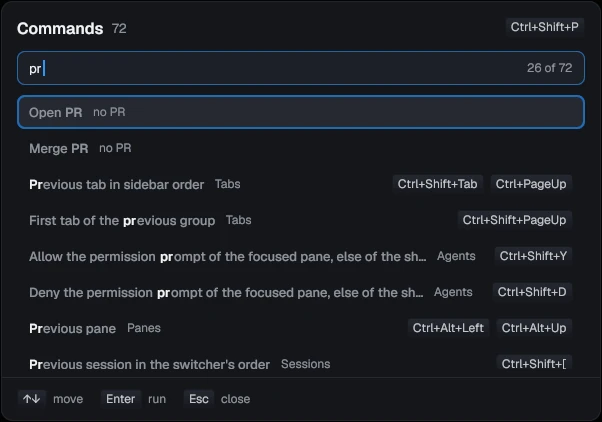
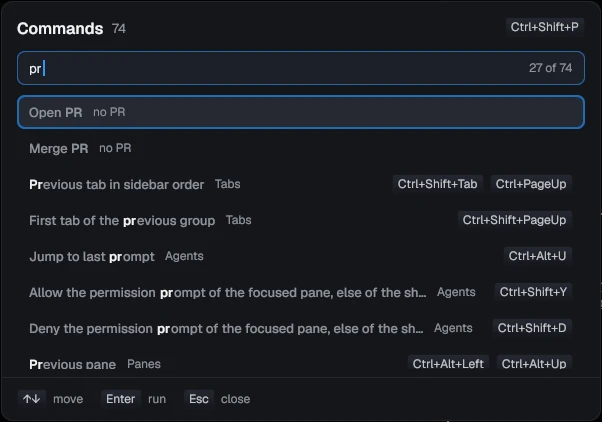
Show the 0.2 UI and version scheme in the README and site (#332)
* Show the 0.2 UI and version scheme in the README and site

Retake the hero, sidebar, fleet, session switcher and palette images from
a current build, and add the board with a section in the README and on the
site. The hero, sidebar and fleet images come from a temp daemon with
scripted fake agents; the switcher, palette and board come from
pwdemo-app. Timing, Usage, Agent errors and agents talking keep their
data, with the current sidebar header and footer.

Releases are now v0.2.N. release.sh already bumps the newest tag's patch,
so v0.2.0 gives v0.2.1 and v0.1.15 gives v0.1.16; a test pins both, and
v0.2.0 itself is cut by passing the version. The CHANGELOG preamble,
install, maintainers and troubleshooting pages use the new numbers.

The board demo's remote host is named build-01 instead of box.

* Retake the tabs, conflict and phone images from the current build

All three come from a temp daemon with scripted agents. A fake gh on
PATH answers gh pr view with pull requests #214, #217 and a merged #88,
and two worktrees add the same file, so the conflict radar finds a real
conflict. Pins and colors were set over the daemon socket. The phone
page was paired against the temp daemon and rendered in headless
Chromium at 390 wide and scale 2. Alt text and sizes follow the images.

diff --git a/docs/index.html b/docs/index.html
@@ -199,7 +199,7 @@ footer a { color: var(--muted); }
   </div>
 
   <div class="shot hero-shot">
-    <img src="media/pitwall-hero.webp" width="1280" height="800" alt="The pitwall window: a sidebar of Claude Code and Codex tabs grouped by project, with Working, Approval, Input and Done states, pull request chips and Allow and Deny buttons; the open tab runs three agents in split panes">
+    <img src="media/pitwall-hero.webp" width="1280" height="800" alt="The pitwall window: a sidebar of Claude Code and Codex tabs in acme-api and web-app groups, with Working, Approval, Input and Done states, Always, Allow and Deny buttons, and an orchestrator row with three workers under it; the open tab shows the orchestrator in Codex beside pitwall ls --tree and the migration a worker wrote">
   </div>
 </div>
 
@@ -257,10 +257,22 @@ scoop install pitwall</code></pre>
             <p><strong><kbd>Ctrl+Shift+U</kbd> jumps to the agent that started waiting most recently, in any session.</strong> Its pane gets a ring in the state's color and you get a desktop notification. Press the key again for the next one.</p>
             <p>Any command can ask too: <code>npm test &amp;&amp; pitwall notify "tests passed"</code>.</p>
             <p><strong><kbd>Ctrl+Shift+K</kbd> finds any tab,</strong> in every session and on every host the window shows, by name, branch, folder, agent, pull request or first prompt. It lists the tabs you closed too, up to 200 from the last 30 days, and reopens one with its agent resumed.</p>
+            <p><strong><kbd>Ctrl+Alt+U</kbd> goes back to the pane you last sent a prompt to,</strong> across tabs and sessions, popups included, so after answering three agents you return to the one you were working with.</p>
           </div>
         </div>
         <div class="media">
-          <div class="shot tall"><img src="media/sidebar.webp" width="288" height="665" loading="lazy" alt="The sidebar: an acme-api group with tabs Working, Approval and a tab of three agents listed one per row, a queued task, and a web-app group with an Input tab and a merged Done tab"></div>
+          <div class="shot tall"><img src="media/sidebar.webp" width="288" height="665" loading="lazy" alt="The sidebar: an acme-api group with a Working tab, an Approval tab with Always, Allow and Deny, and an orchestrator with three workers one per row, then a web-app group with an Input tab, a Done tab and a running dev server"></div>
+        </div>
+      </div>
+
+      <div class="feature">
+        <div class="text">
+          <h3>See every agent on one board</h3>
+          <p><strong>The board lays out every agent tab as a card, in columns by what it needs from you:</strong> Needs you, Failed, Working, PR open, Done and Queued. Open it with the button beside the inbox button or <kbd>Ctrl+Shift+M</kbd>.</p>
+          <p>An approval card shows the whole command with Allow and Deny, and a question card its options. Workers fold into their orchestrator's card unless they need you. Scope it to one group, the ungrouped tabs or a host.</p>
+        </div>
+        <div class="media">
+          <div class="shot"><img src="media/board.webp" width="1600" height="1000" loading="lazy" alt="The board: Needs you holds an approval with its full npm run migrate command and Allow and Deny, two questions with their options and a plan ready; Failed holds an error and an agent waiting on its usage limit; Working holds a build, an agent and an orchestrator card with its workers counted by state, then PR open and Done"></div>
         </div>
       </div>
 
@@ -273,7 +285,7 @@ scoop install pitwall</code></pre>
         </div>
         <div class="media stack">
           <div class="shot tall"><img src="media/row-answers.webp" width="288" height="354" loading="lazy" alt="Sidebar rows answering in place: a Codex pane's approval with Always, Allow and Deny, and under an orchestrator's row four workers, one with Allow and Deny and one asking which database to use with Redis and SQLite buttons"></div>
-          <div class="shot tall"><img src="media/phone.webp" width="780" height="1688" loading="lazy" alt="The phone page: approvals for three tabs with Allow and Deny buttons, and a Codex question with an answer box"></div>
+          <div class="shot tall"><img src="media/phone.webp" width="780" height="1688" loading="lazy" alt="The phone page: two approvals with Allow and Deny buttons, a question from Fix the checkout race, and two finished turns with a Reply box"></div>
         </div>
       </div>
 
@@ -292,8 +304,8 @@ pitwall wait --children \
   --until done --timeout 30m</code></pre>
         </div>
         <div class="media stack">
-          <div class="shot tall"><img src="media/fleet-folded.webp" width="288" height="316" loading="lazy" alt="The sidebar with the Billing epic fleet folded into one row: a bar of ten worker segments and counts of 2 needing you, 1 failed, 3 working and 4 done, above a rate limiting tab and a collapsed web-app group"></div>
-          <div class="shot tall"><img src="media/workers.webp" width="288" height="880" loading="lazy" alt="The same fleet unfolded: a Billing epic tab running Claude Code with a bar of ten worker segments and counts of 2 needing you, 1 failed, 3 working and 4 done, and its ten workers indented under it, among them Retry failed webhooks waiting for input with a Reply button, Refund flow waiting for approval with Allow and Deny, and Mid-cycle plan change with an error; the rest show their branches"></div>
+          <div class="shot tall"><img src="media/fleet-folded.webp" width="288" height="316" loading="lazy" alt="The sidebar with the Billing epic fleet folded into one row: a bar of five worker segments and counts of 2 needing you, 1 failed, 1 working and 1 done, above a rate limiting tab and a collapsed web-app group"></div>
+          <div class="shot tall"><img src="media/workers.webp" width="288" height="800" loading="lazy" alt="The same fleet unfolded: a Billing epic tab running Claude Code with a bar of five worker segments, and its five workers indented under it: Render invoice PDFs done, Retry failed webhooks waiting for input with a Reply button, Rate limit the API working, Refund flow waiting for approval with Always, Allow and Deny, and Mid-cycle plan change with an error"></div>
         </div>
       </div>
 
@@ -333,7 +345,7 @@ pitwall wait --children \
           <p><strong>Clean up what a worktree started.</strong> Set <code>teardown</code>, such as <code>docker compose down</code>, under <code>[worktrees]</code>, and it runs with the worktree's ports before pitwall removes the folder. A failure keeps the worktree and says why. A command from a repo's <code>.pitwall/worktree.toml</code> needs your yes each time, since anyone can put code in a repo you clone. Without a yes, pitwall skips it, shows what it would have run and removes the worktree.</p>
         </div>
         <div class="media">
-          <div class="shot"><img src="media/conflict.webp" width="600" height="420" loading="lazy" alt="The hover card of the Retry failed webhooks tab: its pull request with one check passed and one running, a red warning that it conflicts with the rate limiting tab in src/server/router.ts, and its ports"></div>
+          <div class="shot"><img src="media/conflict.webp" width="600" height="430" loading="lazy" alt="The hover card of the Retry failed webhooks tab: pull request #217 open with review required, build passed and test running, a red warning that it conflicts with the rate limiting tab in src/server/router.ts and which to merge first, its ports and the command it asks to run"></div>
         </div>
       </div>
 
@@ -412,10 +424,10 @@ pitwall send "$pane" -- "Critique plan.md"</code></pre>
           <h3>Never lose a session</h3>
           <p><strong>Close the window, reboot or upgrade, and your tabs come back in their folders with the agents resumed where they left off.</strong></p>
           <p>Sessions work like tmux, and the switcher (<kbd>Ctrl+Shift+S</kbd>) shows every session's agents before you switch. <code>pitwall --host box</code> runs them on another machine over ssh, so they keep going when the laptop closes. With <code>window = true</code> under <code>[[hosts]]</code>, one window shows this machine's sessions and that host's under their own headings, with a Waiting on you list of the agents blocked on any of them.</p>
-          <p>Panes keep their most recent 2000 rows across restarts, except in guarded tabs. <strong>Keep awake,</strong> off by default, in Settings, Agents, holds a logind sleep block on Linux and prevents idle sleep on macOS while any agent is Working and for a grace period after, 15 minutes unless you change it. The screen can still sleep, a closed lid or a suspend that ignores the block can still suspend Linux, and a Mac still sleeps when you tell it to. Windows does nothing.</p>
+          <p>Panes keep their most recent 2000 rows across restarts, except in guarded tabs. An agent stopped by its plan's usage limit gets <code>continue</code> typed in a minute after the reset, and that schedule survives a daemon restart. <strong>Keep awake,</strong> off by default, in Settings, Agents, holds a logind sleep block on Linux and prevents idle sleep on macOS while any agent is Working and for a grace period after, 15 minutes unless you change it. The screen can still sleep, a closed lid or a suspend that ignores the block can still suspend Linux, and a Mac still sleeps when you tell it to. Windows does nothing.</p>
         </div>
         <div class="media">
-          <div class="shot"><img src="media/sessions.webp" width="738" height="560" loading="lazy" alt="The session switcher: sessions acme, billing and docs with their working and needs-you counts, and the billing session's tabs on the right"></div>
+          <div class="shot"><img src="media/sessions.webp" width="738" height="560" loading="lazy" alt="The session switcher: sessions swift-otter, calm-heron and brave-lynx with their working and needs-you counts, and the current session's tabs on the right"></div>
         </div>
       </div>
 
@@ -424,9 +436,10 @@ pitwall send "$pane" -- "Critique plan.md"</code></pre>
           <h3>Pin and color the tabs you keep</h3>
           <p><strong>Pin a tab and it stays open. Closing it from the window asks you to unpin it first, and <code>pitwall kill</code> from a script or another agent is refused.</strong></p>
           <p>Give a tab one of eight colors from its menu and its row takes a faint tint, so the billing work and the webhook fix stop looking alike. A soft green mark under the agent's icon shows which Claude Code sessions have <code>/remote-control</code> on, so you know which ones you can pick up from your phone.</p>
+          <p><strong>Closing a tab or pane asks first when its agent is working or waiting on you mid-turn.</strong> The dialog names the tab and agents, once for the whole close. Turn it off in Settings, Appearance, Confirm close, or with <code>[appearance] confirm_close = false</code>.</p>
         </div>
         <div class="media">
-          <div class="shot tall"><img src="media/tabs.webp" width="288" height="460" loading="lazy" alt="The sidebar with colored tabs: a pinned blue Rate limiting tab with the remote control mark, a red Retry failed webhooks tab waiting for input, a pinned green Billing export tab marked done, and a violet Onboarding copy tab working"></div>
+          <div class="shot tall"><img src="media/tabs.webp" width="288" height="570" loading="lazy" alt="The sidebar with pinned and colored tabs: a pinned blue rate limiting tab with its pull request ready, a red Retry failed webhooks tab waiting for approval, a pinned green Add dark mode tab whose pull request merged, and a violet Fix the checkout race tab waiting for input"></div>
         </div>
       </div>
 
@@ -438,7 +451,7 @@ pitwall send "$pane" -- "Critique plan.md"</code></pre>
           <p><strong><kbd>Ctrl+Shift+I</kbd> types file paths into a prompt,</strong> from a picker over the pane's folder. <kbd>Ctrl+Shift+G</kbd> labels every URL, path, hash and <code>#number</code> on screen; type a label to copy it, or Shift and the label to open it. With <code>open_path</code> under <code>[terminal]</code>, such as <code>["bat", "--paging=always"]</code>, a path opens in a popup over the panes. Picture in picture, in a tab's menu, keeps one pane live in a corner while you work in another tab.</p>
         </div>
         <div class="media">
-          <div class="shot"><img src="media/palette.webp" width="602" height="422" loading="lazy" alt="The command palette filtered by pr: Open PR and Merge PR first, then tab and pane actions with their keys"></div>
+          <div class="shot"><img src="media/palette.webp" width="602" height="422" loading="lazy" alt="The command palette filtered by pr, 27 of 74 commands: Open PR and Merge PR first, then tab, agent and pane actions with their keys, Jump to last prompt among them"></div>
         </div>
       </div>
     </div>

diff --git a/internal/ui/app/fakeboard.go b/internal/ui/app/fakeboard.go
@@ -188,15 +188,15 @@ func checks(n, pass, run int) []model.Check {
 	return out
 }
 
-// SessionHost puts the evals session on a host named box.
+// SessionHost puts the evals session on a host named build-01.
 func (f *FakeBoard) SessionHost(session string) string {
 	if session == "s9" {
-		return "box"
+		return "build-01"
 	}
 	return ""
 }
 
-// Hosts is this machine and box.
+// Hosts is this machine and build-01.
 func (f *FakeBoard) Hosts() []sidebar.HostInfo {
-	return []sidebar.HostInfo{{Up: true, Sessions: []string{"s1"}}, {Name: "box", Up: true, Sessions: []string{"s9"}}}
+	return []sidebar.HostInfo{{Up: true, Sessions: []string{"s1"}}, {Name: "build-01", Up: true, Sessions: []string{"s9"}}}
 }

diff --git a/README.md b/README.md
@@ -14,7 +14,7 @@ tab, notifies you, and takes you there with one key.
   Oh My Pi.
 - Installs with one command.
 
-<img src="docs/media/pitwall-hero.webp" alt="The pitwall window: a sidebar of Claude Code and Codex tabs grouped by project, with Working, Approval, Input and Done states, pull request chips and Allow and Deny buttons; the open tab runs three agents in split panes" width="800">
+<img src="docs/media/pitwall-hero.webp" alt="The pitwall window: a sidebar of Claude Code and Codex tabs in acme-api and web-app groups, with Working, Approval, Input and Done states, Always, Allow and Deny buttons, and an orchestrator row with three workers under it; the open tab shows the orchestrator in Codex beside pitwall ls --tree and the migration a worker wrote" width="800">
 
 ## Install
 
@@ -73,7 +73,7 @@ are Cmd+U, Cmd+Shift+Y, Cmd+Shift+N, Cmd+Shift+R and Cmd+T.
 
 ### See every agent at a glance
 
-<img src="docs/media/sidebar.webp" alt="The sidebar: an acme-api group with tabs Working, Approval and a tab of three agents listed one per row, a queued task, and a web-app group with an Input tab and a merged Done tab" width="240" align="right">
+<img src="docs/media/sidebar.webp" alt="The sidebar: an acme-api group with a Working tab, an Approval tab with Always, Allow and Deny, and an orchestrator with three workers one per row, then a web-app group with an Input tab, a Done tab and a running dev server" width="240" align="right">
 
 **Every tab's row says what its agent is doing: Working, Input, Approval,
 Plan, Done or Error.** A tab with three agents in split panes lists each on
@@ -99,7 +99,22 @@ shows, by name, branch, folder, agent, pull request or first prompt. It lists
 the tabs you closed too, up to 200 from the last 30 days, and reopens one with
 its agent resumed.
 
+**Ctrl+Alt+U goes back to the pane you last sent a prompt to,** across tabs
+and sessions, popups included, so after answering three agents you return to
+the one you were working with.
+
 <br clear="right">
+
+### See every agent on one board
+
+**The board lays out every agent tab as a card, in columns by what it needs
+from you:** Needs you, Failed, Working, PR open, Done and Queued. Open it with
+the button beside the inbox button or Ctrl+Shift+M. An approval card shows the
+whole command with Allow and Deny, and a question card its options. Workers
+fold into their orchestrator's card unless they need you. Scope it to one
+group, the ungrouped tabs or a host.
+
+<img src="docs/media/board.webp" alt="The board: Needs you holds an approval with its full npm run migrate command and Allow and Deny, two questions with their options and a plan ready; Failed holds an error and an agent waiting on its usage limit; Working holds a build, an agent and an orchestrator card with its workers counted by state, then PR open and Done" width="800">
 
 ### Answer without switching windows
 
@@ -124,7 +139,7 @@ them too.
 
 <br clear="right">
 
-<img src="docs/media/phone.webp" alt="The phone page: approvals for three tabs with Allow and Deny buttons, and a Codex question with an answer box" width="240" align="right">
+<img src="docs/media/phone.webp" alt="The phone page: two approvals with Allow and Deny buttons, a question from Fix the checkout race, and two finished turns with a Reply box" width="240" align="right">
 
 **Or answer from your phone.** Pair it by QR code and it lists what needs you,
 with Allow and Deny and a box for typed answers. A menu on an agent's screen
@@ -162,7 +177,7 @@ across three workers" is all you have to say.
 Settings, Appearance, Sidebar, Workers gives each worker a full row of its own
 instead, behind a bar of their states on the orchestrator's row, as here:
 
-<img src="docs/media/fleet-folded.webp" alt="The sidebar with the Billing epic fleet folded into one row: a bar of ten worker segments and counts of 2 needing you, 1 failed, 3 working and 4 done, above a rate limiting tab and a collapsed web-app group" width="240"> <img src="docs/media/workers.webp" alt="The same fleet unfolded: ten workers indented under the Billing epic tab, among them Retry failed webhooks waiting for input with a Reply button, Refund flow waiting for approval with Allow and Deny, and Mid-cycle plan change with an error; the rest show their branches" width="240">
+<img src="docs/media/fleet-folded.webp" alt="The sidebar with the Billing epic fleet folded into one row: a bar of five worker segments and counts of 2 needing you, 1 failed, 1 working and 1 done, above a rate limiting tab and a collapsed web-app group" width="240"> <img src="docs/media/workers.webp" alt="The same fleet unfolded: five workers indented under the Billing epic tab, Render invoice PDFs done, Retry failed webhooks waiting for input with a Reply button, Rate limit the API working, Refund flow waiting for approval with Always, Allow and Deny, and Mid-cycle plan change with an error" width="240">
 
 ### Fleet mode
 
@@ -243,7 +258,7 @@ shows what it would have run and removes the worktree.
 `pitwall worktree rm --force` skips teardown.
 [Worktree ports and setup](docs/usage.md#worktree-ports-and-setup) has the rules.
 
-<img src="docs/media/conflict.webp" alt="The hover card of the Retry failed webhooks tab: its pull request with one check passed and one running, a red warning that it conflicts with the rate limiting tab in src/server/router.ts, and its ports" width="600">
+<img src="docs/media/conflict.webp" alt="The hover card of the Retry failed webhooks tab: pull request #217 open with review required, build passed and test running, a red warning that it conflicts with the rate limiting tab in src/server/router.ts and which to merge first, its ports and the command it asks to run" width="600">
 
 ### Limit what an agent can do by accident
 
@@ -344,7 +359,8 @@ pitwall send "$pane" -- "Critique plan.md"
 folders with the agents resumed where they left off.** Sessions work like
 tmux, and the switcher (Ctrl+Shift+S) shows every session's agents before
 you switch. Panes keep their most recent 2000 rows across restarts, except in
-guarded tabs.
+guarded tabs. An agent stopped by its plan's usage limit gets `continue` typed
+in a minute after the reset, and that schedule survives a daemon restart.
 `pitwall --host box` runs them on another machine over ssh, so they keep going
 when the laptop closes. With `window = true` under `[[hosts]]`, one window shows
 this machine's sessions and that host's under their own headings, with a Waiting
@@ -356,11 +372,11 @@ grace period after, 15 minutes unless you change it. The screen can still sleep,
 a closed lid or a suspend that ignores the block can still suspend Linux, and a
 Mac still sleeps when you tell it to. Windows does nothing.
 
-<img src="docs/media/sessions.webp" alt="The session switcher: sessions acme, billing and docs with their working and needs-you counts, and the billing session's tabs on the right" width="640">
+<img src="docs/media/sessions.webp" alt="The session switcher: sessions swift-otter, calm-heron and brave-lynx with their working and needs-you counts, and the current session's tabs on the right" width="640">
 
 ### Pin and color the tabs you keep
 
-<img src="docs/media/tabs.webp" alt="The sidebar with colored tabs: a pinned blue Rate limiting tab with the remote control mark, a red Retry failed webhooks tab waiting for input, a pinned green Billing export tab marked done, and a violet Onboarding copy tab working" width="240" align="right">
+<img src="docs/media/tabs.webp" alt="The sidebar with pinned and colored tabs: a pinned blue rate limiting tab with its pull request ready, a red Retry failed webhooks tab waiting for approval, a pinned green Add dark mode tab whose pull request merged, and a violet Fix the checkout race tab waiting for input" width="240" align="right">
 
 **Pin a tab and it stays open.** Closing it from the window asks you to
 unpin it first, and `pitwall kill` from a script or another agent is
@@ -396,7 +412,7 @@ a label to copy it, or Shift and the label to open it. With `open_path` under
 over the panes. Picture in picture, in a tab's menu, keeps one pane live in a
 corner while you work in another tab.
 
-<img src="docs/media/palette.webp" alt="The command palette filtered by pr: Open PR and Merge PR first, then tab and pane actions with their keys" width="560">
+<img src="docs/media/palette.webp" alt="The command palette filtered by pr, 27 of 74 commands: Open PR and Merge PR first, then tab, agent and pane actions with their keys, Jump to last prompt among them" width="560">
 
 ## Works with
 
@@ -419,6 +435,8 @@ and 11, on x86_64 and arm64.
 | Linux, Windows              | macOS                     | Does                                       |
 | --------------------------- | ------------------------- | ------------------------------------------ |
 | Ctrl+Shift+U                | Cmd+U                     | Go to the agent that needs you             |
+| Ctrl+Alt+U                  | Cmd+Option+U              | Back to the pane you last prompted         |
+| Ctrl+Shift+M                | Cmd+Shift+M               | Show or hide the board                     |
 | Ctrl+Shift+Y / Ctrl+Shift+D | Cmd+Shift+Y / Cmd+Shift+N | Allow / Deny the permission prompt         |
 | Ctrl+Shift+R                | Cmd+Shift+R               | Review the tab's changes                   |
 | Ctrl+Shift+A                | Cmd+Shift+A               | New task, now or queued                    |

diff --git a/CHANGELOG.md b/CHANGELOG.md
@@ -1,22 +1,25 @@
 # Changelog
 
-Releases are `v0.1.1`, `v0.1.2`, ...: each release bumps the patch number
+Releases are `v0.2.0`, `v0.2.1`, ...: each release bumps the patch number
 and becomes the latest release on GitHub, which is what the installers take.
-Before them came `v0.1.0-beta.1` to `v0.1.0-beta.18`, `v0.1.0-alpha.1` to
-`v0.1.0-alpha.24`, and the `v0.0.N` tags. A release is a git tag on `main`;
-`scripts/install.sh` stamps the binary with `git describe`, and
-`pitwall --version` prints it.
+A new minor, such as `v0.2.0`, starts only when you pass its version.
+Before them came `v0.1.1` to `v0.1.15`, `v0.1.0-beta.1` to
+`v0.1.0-beta.18`, `v0.1.0-alpha.1` to `v0.1.0-alpha.24`, and the `v0.0.N`
+tags. A release is a git tag on `main`; `scripts/install.sh` stamps the
+binary with `git describe`, and `pitwall --version` prints it.
 
 Changes land with their notes under `## Unreleased` at the top. To cut a
 release from an up-to-date, clean `main`, run `sh scripts/release.sh`. It
-renames `## Unreleased` to the next `## v0.1.N` (or the version you
-pass) and opens a `Release v0.1.N` pull request. Once that merges,
-`git pull --ff-only` and run `sh scripts/release.sh --tag`. It tags the
-release commit on `main` and pushes the tag once, which starts the release
-build. Either step takes `--dry-run`.
+renames `## Unreleased` to the next patch of the newest release, such as
+`## v0.2.1` after `v0.2.0`, or to the version you pass, and opens a
+`Release v0.2.N` pull request. Once that merges, `git pull --ff-only` and
+run `sh scripts/release.sh --tag`. It tags the release commit on `main` and
+pushes the tag once, which starts the release build. Either step takes
+`--dry-run`.
 
 ## Unreleased
 
+- `scripts/release.sh` guesses only the next patch of the newest release: after `v0.2.0` it picks `v0.2.1`. Cut `v0.2.0`, or any new minor, with `sh scripts/release.sh v0.2.0`. The README and site show the current sidebar, the board and the palette, and list the board, confirm close, jump to last prompt and resumes that survive a restart.
 - Remove the greyed-out comments button from the sidebar footer. It came from aide and never did anything.
 - The board: every agent tab as a card in columns by what it needs from you (Needs you, Failed, Working, PR open, Done, Queued), opened from a button beside the inbox button or with Ctrl+Shift+M (Cmd+Shift+M on macOS). Approvals show the whole command with Allow and Deny; long commands and ones the guard denies send you to the tab. Workers fold into their orchestrator's card unless they need you. Scope it to a group, the ungrouped tabs or a host. A window needs a daemon of this version to show an approval's command.
 - Ask before a GUI close stops an agent working or waiting on you mid-turn, including chats and popup agents. The dialog names the tab and agents and asks once, including for several panes. Closing a pinned tab or its last pane uses only the unpin dialog. Closing one pane in a pinned split uses the agent dialog when its agent is mid-turn. Killing a detached tab keeps its two-click confirmation. Turn the check off with `[appearance] confirm_close = false` or Settings, Appearance, Confirm close.

diff --git a/docs/maintainers.md b/docs/maintainers.md
@@ -81,16 +81,17 @@ for checking the version in use.
 ## Publish a release
 
 `scripts/release.sh` runs steps 1 and 3: it opens the release pull request
-from the `## Unreleased` section, and `scripts/release.sh --tag` tags the
+from the `## Unreleased` section, named for the next patch of the newest
+release or for the version you pass, `v0.2.0` to start the minor, and `scripts/release.sh --tag` tags the
 merged release commit and pushes the tag once. The steps below are what it
 does, and what to check around it.
 
-1. Merge the release changes and the matching `## v0.1.0-alpha.N` section in
+1. Merge the release changes and the matching `## v0.2.N` section in
    [CHANGELOG.md](../CHANGELOG.md) through a pull request.
 2. Check that all required CI jobs passed for the commit you intend to tag.
    Run platform checks relevant to the release. The full macOS suite
    remains advisory; a green build does not prove it passed.
-3. Tag that commit on `main` with `v0.1.0-alpha.N` and push the tag on its
+3. Tag that commit on `main` with `v0.2.N` and push the tag on its
    own. The release workflow verifies that the tagged commit belongs to `main`
    before building and publishes the release as the latest one.
 4. Review the six platform archives, `checksums.txt`, notices and release notes
@@ -120,9 +121,9 @@ The job also attaches `pitwall-bin.aur.tar.gz`, the AUR `PKGBUILD` and
 a hand step, from a clone of `ssh://aur@aur.archlinux.org/pitwall-bin.git`:
 
 ```sh
-curl -fsSL https://github.com/quanticstudios/pitwall/releases/download/v0.1.0-alpha.N/pitwall-bin.aur.tar.gz | tar -xz
+curl -fsSL https://github.com/quanticstudios/pitwall/releases/download/v0.2.N/pitwall-bin.aur.tar.gz | tar -xz
 git add PKGBUILD .SRCINFO
-git commit -m "pitwall v0.1.0-alpha.N"
+git commit -m "pitwall v0.2.N"
 git push origin HEAD:master
 ```
 

diff --git a/docs/install.md b/docs/install.md
@@ -9,16 +9,16 @@ The install commands are in the [README](../README.md#install).
 | Windows 10 1809 or newer, 11   | x86_64, arm64  | new and not yet run        |
 
 pitwall is developed on Linux (Hyprland) and works on any Wayland or X11
-desktop. Releases are tagged `v0.1.N`, and each one bumps the patch number. Config and saved state carry
+desktop. Releases are tagged `v0.2.N`: `v0.2.0` starts the line and each later one bumps the patch number. Config and saved state carry
 over between releases, and a release that cannot keep them says so in the
 changelog.
 
 The script downloads the latest release for your system, checks it against
 the release's `checksums.txt`, and installs `pitwall` in `~/.local/bin`. On
 Windows it installs `pitwall.exe` in `%LOCALAPPDATA%\pitwall\bin`, adds that
-folder to your user PATH, and adds pitwall to the Start menu. To pin a release, set `PITWALL_VERSION=v0.1.1`; to
+folder to your user PATH, and adds pitwall to the Start menu. To pin a release, set `PITWALL_VERSION=v0.2.0`; to
 install somewhere else, set `PITWALL_INSTALL_DIR`. In PowerShell, set them
-first with `$env:PITWALL_VERSION = 'v0.1.1'`.
+first with `$env:PITWALL_VERSION = 'v0.2.0'`.
 
 ## Platform notes
 
@@ -89,7 +89,7 @@ one ([handoff.md](handoff.md)), so agents, dev servers and test loops keep
 running with their scrollback, and it prints which happened:
 
 ```
-Installed pitwall v0.1.40 over v0.1.39.
+Installed pitwall v0.2.1 over v0.2.0.
 The new daemon took over; every program in a pane kept running.
 ```
 

diff --git a/docs/usage.md b/docs/usage.md
@@ -777,7 +777,7 @@ next poll. These sends also work with the window closed. The daemon keeps
 its deduplication history in memory, so a restart allows another send.
 Fleet workers with escalation enabled still escalate after two failing
 commits, as described below.
-<img src="media/conflict.webp" alt="The hover card of a tab whose branch conflicts with another: its pull request and checks, the conflicting file in red, the suggestion to merge this tab first, and its ports" width="600">
+<img src="media/conflict.webp" alt="The hover card of the Retry failed webhooks tab: pull request #217 open with review required, build passed and test running, a red warning that it conflicts with the rate limiting tab in src/server/router.ts and which to merge first, its ports and the command it asks to run" width="600">
 
 Agents in worktrees of one repository can edit the same files without
 knowing it. When two tabs on different branches of the same repository

diff --git a/docs/phone.md b/docs/phone.md
@@ -6,7 +6,7 @@ question or a finished turn. It runs inside pitwall's background service.
 There is no account, no relay and no app to install: the phone talks to your
 computer over your own network.
 
-<img src="media/phone.webp" alt="The phone page: approvals for three tabs with Allow and Deny buttons, and a question with an answer box" width="300">
+<img src="media/phone.webp" alt="The phone page: two approvals with Allow and Deny buttons, a question from Fix the checkout race, and two finished turns with a Reply box" width="300">
 
 It is off until you turn it on in Settings, Phone, or in config.toml:
 

diff --git a/docs/troubleshooting.md b/docs/troubleshooting.md
@@ -3,9 +3,9 @@
 Run `pitwall doctor` first. It prints a line per check and changes nothing:
 
 ```
-info pitwall v0.1.3
+info pitwall v0.2.0
 ok   pitwall on PATH: /home/me/.local/bin/pitwall
-ok   daemon: v0.1.3, protocol 16.25
+ok   daemon: v0.2.0, protocol 16.25
 FAIL hooks: ~/.claude/settings.json needs: added Notification: '/home/me/.local/bin/pitwall' hook claude and 9 more
      fix: pitwall hooks install --dry-run, then pitwall hooks install
 ok   hooks: ~/.claude/skills/pitwall/SKILL.md
